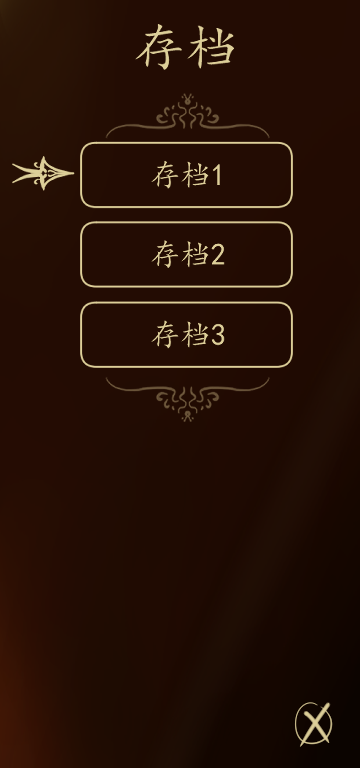
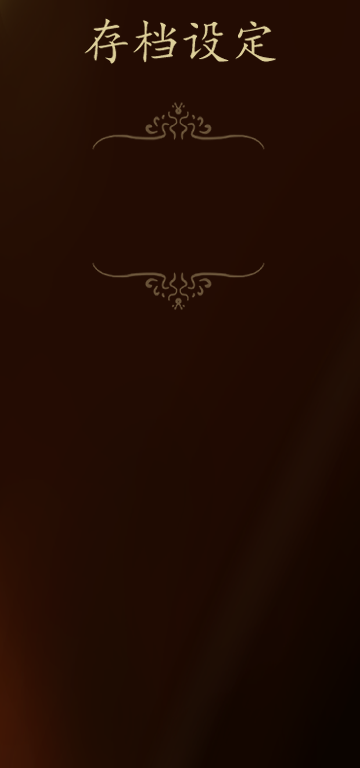
wip: 美工

diff --git a/thh/troubleCrasher/engine/GamePageSwitcher.java b/thh/troubleCrasher/engine/GamePageSwitcher.java
@@ -61,10 +61,10 @@ public class GamePageSwitcher extends GUIPartsSwitcher {
 		NPC_PART = new GUIParts().setName("NPC_IMAGE").setBounds(627, 220, 200, 300)
 				.setBGImage(PersonEnum.CAPTAIN.personImage);
 		SCENE_PART = new GUIParts().setName("SCENE_PART").setBounds(430, 0, 594, 520);
+		final ImageFrame arrowIF = ImageFrame.create("thhimage/Main_Menu_Arrow.png");
 
 		// Start Menu
 		set(STARTSCREEN, new GUIParts() {
-			final ImageFrame arrowIF = ImageFrame.create("thhimage/Main_Menu_Arrow.png");
 			{
 				this.setBGImage("thhimage/Main_Menu_BG.png");
 				setName("STARTSCREEN");
@@ -249,8 +249,32 @@ public class GamePageSwitcher extends GUIPartsSwitcher {
 		});
 		set(SETTINGSCREEN, new GUIParts() {
 			{
-				setName("SETTINGSCREEN");
-				setBGColor(COLOR_BROWN);
+				setName("SAVE_SESSION");
+				setBGImage("thhimage/SaveBar.png");
+				setBounds(70, 0, 360, 768);
+				this.appendLast(new GUIParts() {
+					final GUIParts savegameScrBtn = getSwitcherButton(GAMESCREEN)
+							.setBGImage("thhimage/SaveBar_SaveButton.png").setName("newgameScrBtn")
+							.setBounds(210, 160, 80, 30),
+							loadgameScrBtn = getSwitcherButton(SETTINGSCREEN)
+									.setBGImage("thhimage/SaveBar_LoadButton.png").setName("loadgameScrBtn")
+									.setBounds(210, 220, 80, 30);
+					{
+						this.setName("SAVE_LOAD_TABS");
+						this.appendFirst(savegameScrBtn);
+						this.appendFirst(loadgameScrBtn);
+					}
+					@Override
+					public void paint() {
+						super.paint();
+						if(savegameScrBtn.isScreenMouseOvered()) {
+							arrowIF.dotPaint(savegameScrBtn.left() - 100, savegameScrBtn.cy());
+						}
+						if(loadgameScrBtn.isScreenMouseOvered()) {
+							arrowIF.dotPaint(loadgameScrBtn.left() - 100, loadgameScrBtn.cy());
+						}
+					}
+				});
 			}
 		});
 
